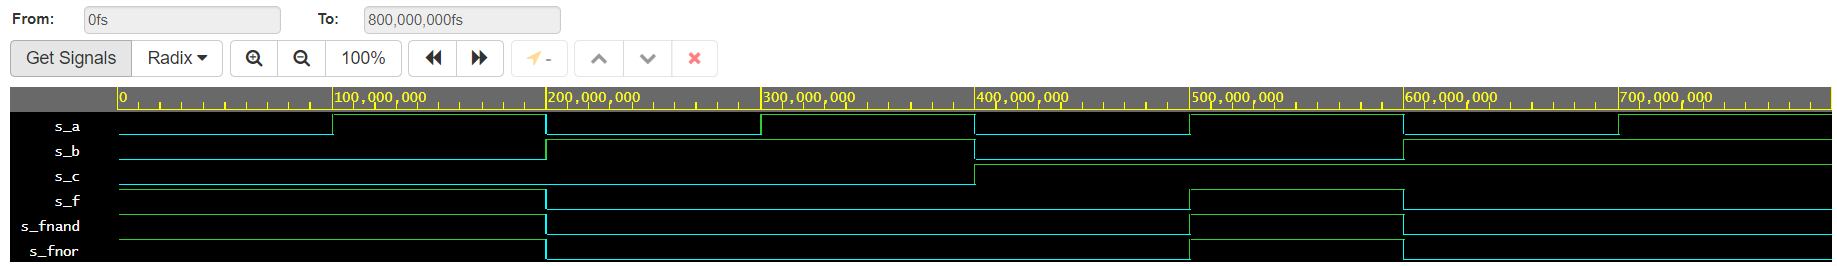
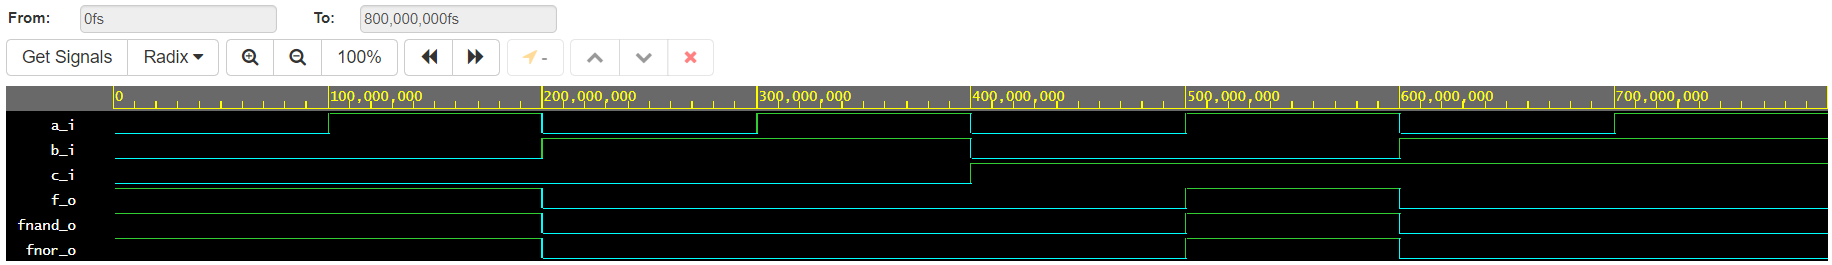
created 02-logic

diff --git a/Labs/01-gates/README.md b/Labs/01-gates/README.md
@@ -1,15 +1,110 @@
-# 01- Gates
-## Verification of De Morgan's laws of function f(c,b,a).
+# 01 - Gates
+## 1. Submit the GitHub link to repository
+[repository](https://github.com/barbora-simkova/Digital-electronics-1)
+## 2. Verification of De Morgan's laws of function
 
 ```vhdl 
+------------------------------------------------------------------------
+--
+-- Example of basic OR, AND, XOR gates.
+-- Nexys A7-50T, Vivado v2020.1, EDA Playground
+--
+-- Copyright (c) 2019-2020 Tomas Fryza
+-- Dept. of Radio Electronics, Brno University of Technology, Czechia
+-- This work is licensed under the terms of the MIT license.
+--
+------------------------------------------------------------------------
+
+library ieee;               -- Standard library
+use ieee.std_logic_1164.all;-- Package for data types and logic operations
+
+------------------------------------------------------------------------
+-- Entity declaration for basic gates
+------------------------------------------------------------------------
+entity gates is
+    port(
+        a_i     : in  std_logic;         -- Data input
+        b_i     : in  std_logic;         -- Data input
+        c_i     : in  std_logic;         -- Data input
+        f_o  	: out std_logic;         -- OR output function
+        fnand_o : out std_logic;         -- NAND output function
+        fnor_o  : out std_logic          -- NOR output function
+    );
+end entity gates;
+
+------------------------------------------------------------------------
+-- Architecture body for basic gates
+------------------------------------------------------------------------
 architecture dataflow of gates is
 begin
     f_o  <= ((not b_i) and a_i) or ((not c_i) and (not b_i));
- 	fnand_o <= not (not (not b_i and a_i) and not(not c_i and not b_i));
-    fnor_o <= not (b_i or not a_i) or not (c_i or b_i);
+    fnand_o <= ((not b_i nand a_i) nand (not c_i nand not b_i));
+    fnor_o <= not ((b_i nor not a_i) nor (c_i nor b_i));
 
 end architecture dataflow;
 ```
 
+| **c** | **b** |**a** | **f(c,b,a)** |
+| :-: | :-: | :-: | :-: |
+| 0 | 0 | 0 | 1 |
+| 0 | 0 | 1 | 1 |
+| 0 | 1 | 0 | 0 |
+| 0 | 1 | 1 | 0 |
+| 1 | 0 | 0 | 0 |
+| 1 | 0 | 1 | 1 |
+| 1 | 1 | 0 | 0 |
+| 1 | 1 | 1 | 0 |
+
+![graf](Images/graf.png)
+
 
 [Link to my public EDA Playground example](https://www.edaplayground.com/x/Z594)
+
+## 3. Verification of Distributive laws
+
+```vhdl
+------------------------------------------------------------------------
+--
+-- Example of basic OR, AND, XOR gates.
+-- Nexys A7-50T, Vivado v2020.1, EDA Playground
+--
+-- Copyright (c) 2019-2020 Tomas Fryza
+-- Dept. of Radio Electronics, Brno University of Technology, Czechia
+-- This work is licensed under the terms of the MIT license.
+--
+------------------------------------------------------------------------
+
+library ieee;               -- Standard library
+use ieee.std_logic_1164.all;-- Package for data types and logic operations
+
+------------------------------------------------------------------------
+-- Entity declaration for basic gates
+------------------------------------------------------------------------
+entity gates is
+    port(
+        x_i    : in  std_logic;         -- Data input
+        y_i    : in  std_logic;         -- Data input
+        z_i    : in  std_logic;         -- Data input
+        f1_o   : out std_logic;         
+        f2_o   : out std_logic;         
+        f3_o   : out std_logic;          
+        f4_o   : out std_logic          
+    );
+end entity gates;
+
+------------------------------------------------------------------------
+-- Architecture body for basic gates
+------------------------------------------------------------------------
+architecture dataflow of gates is
+begin
+    f1_o  <= (x_i and y_i) or (x_i and z_i);
+    f2_o  <= x_i and (y_i or z_i);
+    f3_o  <= (x_i or y_i) and (x_i or z_i);
+    f4_o  <= x_i or (y_i and z_i);
+
+end architecture dataflow;
+```
+
+![graf2](Images/graf2.png)
+
+[Link to my public EDA Playground example](https://www.edaplayground.com/x/B3N7)
